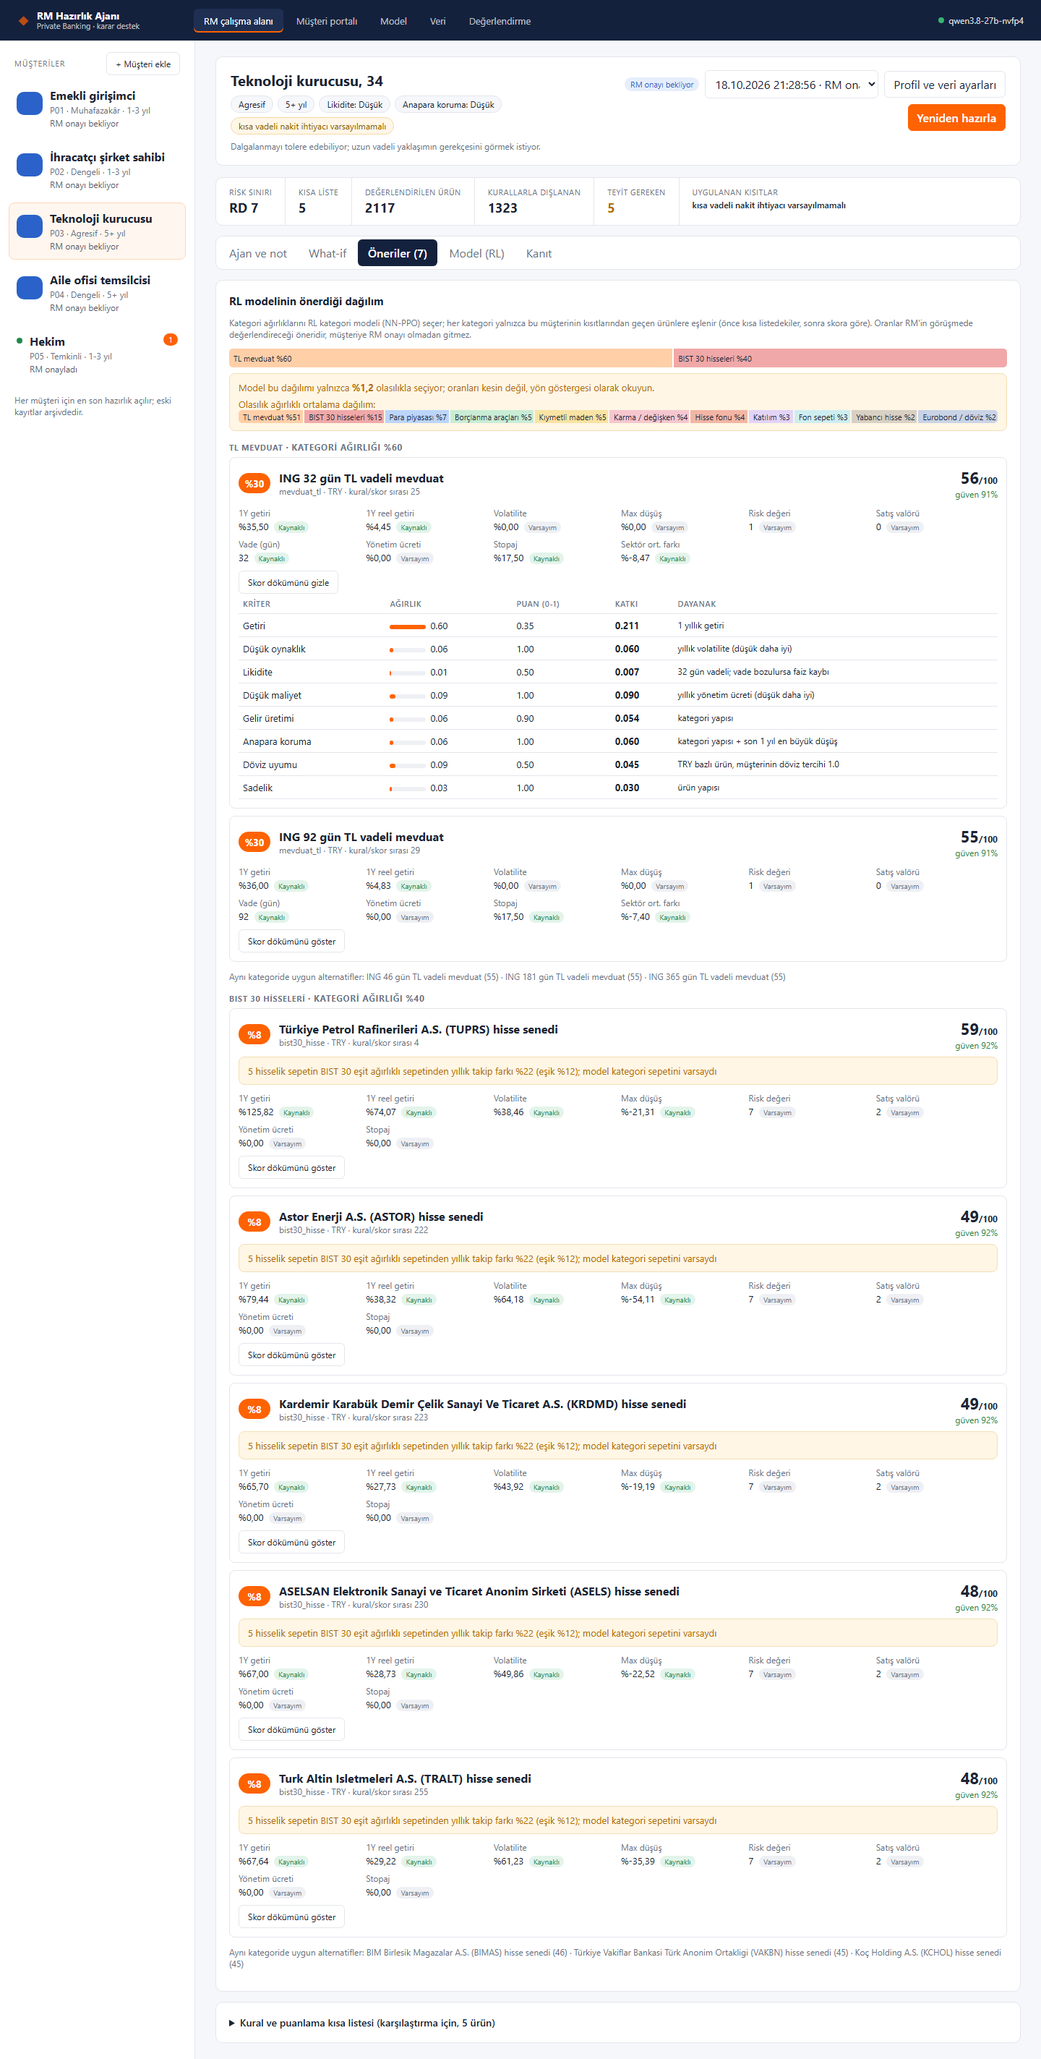
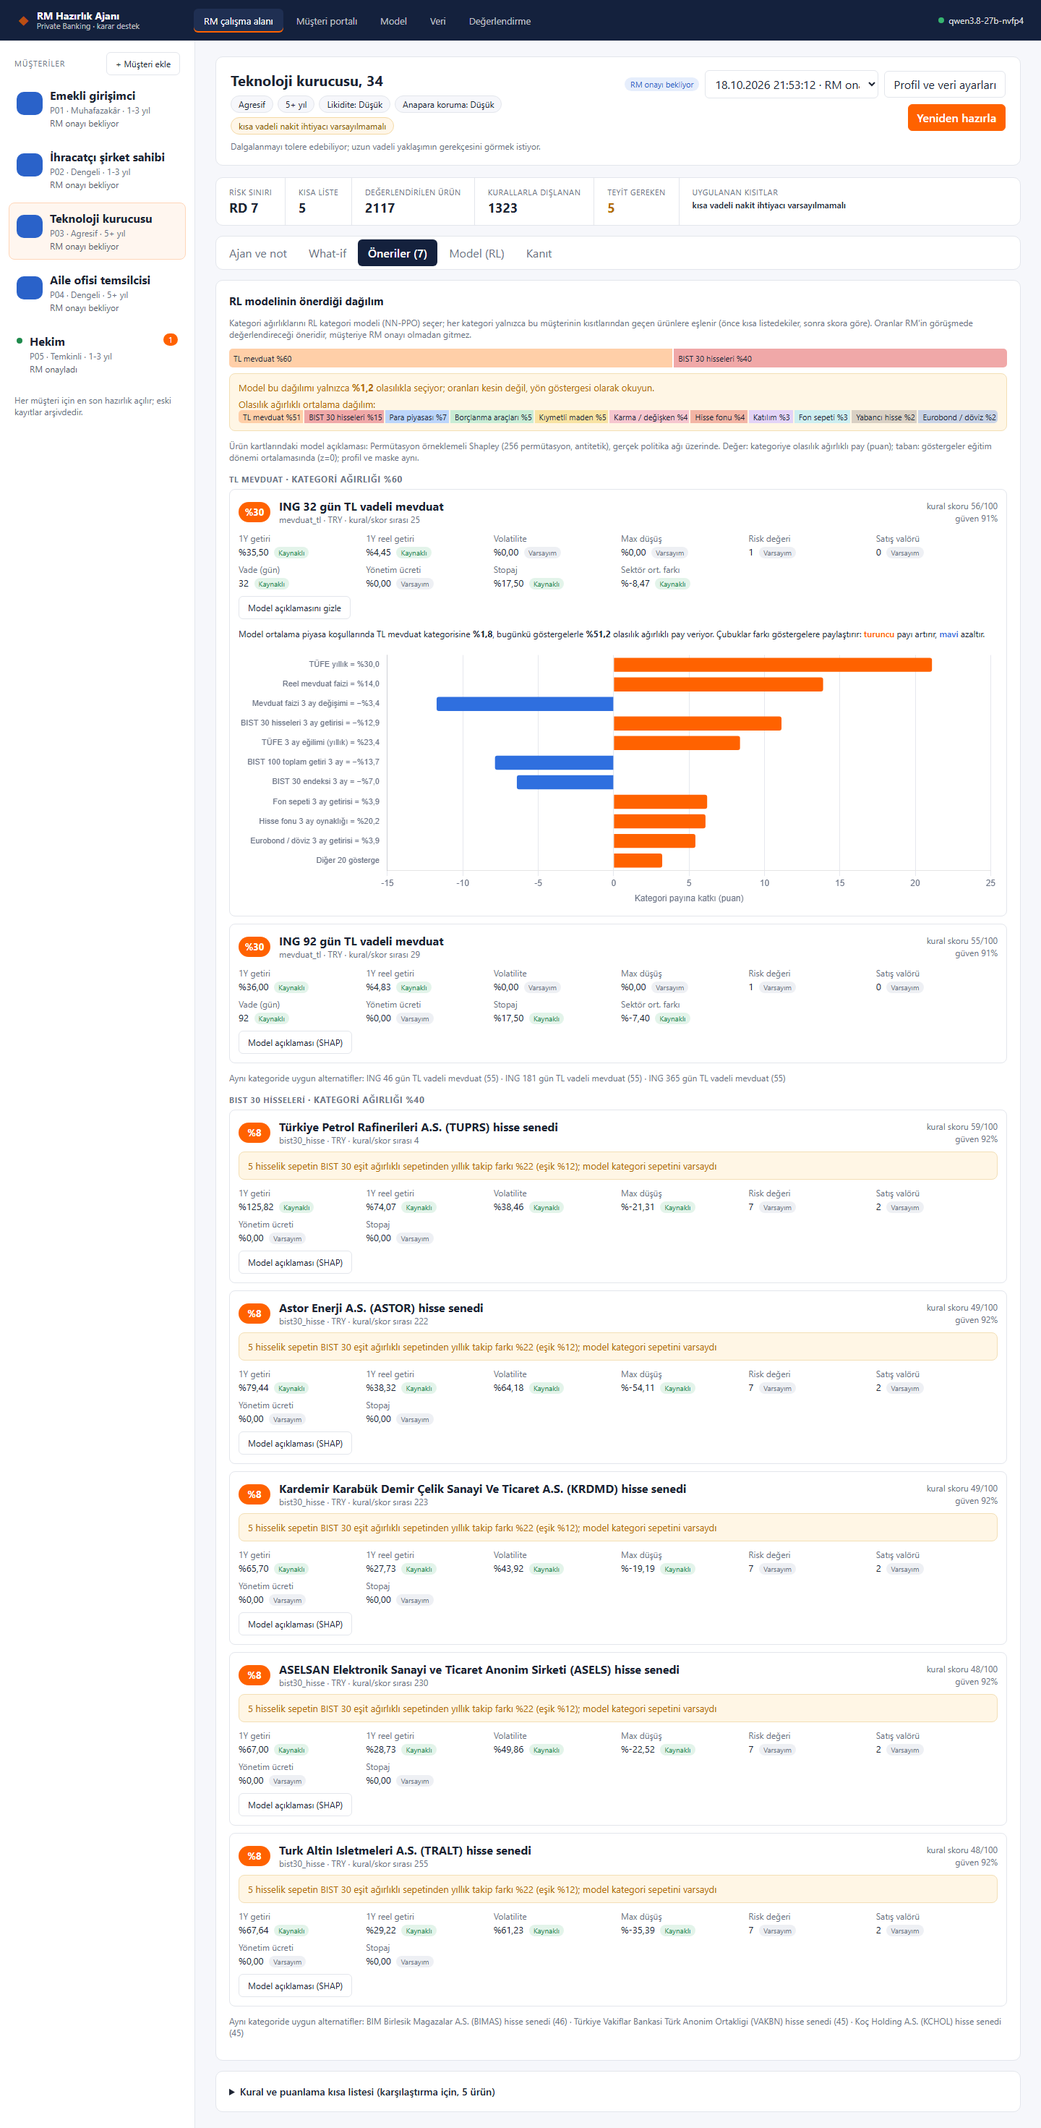
Öneriler kartlarında gösterge düzeyinde SHAP grafiği
RL ürün kartlarında kural skor dökümü yerine, ürünün kategorisi için 30 piyasa
göstergesinin modelin olasılık ağırlıklı payına katkısı (permütasyon örneklemeli
Shapley, gerçek politika ağı) Chart.js ile gösteriliyor. Katkılar toplamı kesin;
test eklendi. Kural skoru kartta küçük bilgi olarak kaldı.

diff --git a/frontend/src/components/ResultView.tsx b/frontend/src/components/ResultView.tsx
@@ -6,6 +6,7 @@ import { RLView } from './RLView'
 import { RLCategoryView } from './RLCategoryView'
 import { RLSummaryCard } from './RLSummaryCard'
 import { AllocBar, CAT_LABEL } from './AllocBar'
+import { ShapChart, type ShapCat } from './ShapChart'
 import { AgentPanel } from './AgentPanel'
 import { WhatIfPanel } from './WhatIfPanel'
 import { CustomerFacingPanel } from './CustomerFacingPanel'
@@ -43,7 +44,8 @@ function SourceChip({ dp }: { dp: DataPoint }) {
   )
 }
 
-function ProductCard({ s, weight, note }: { s: Scored; weight?: number; note?: string | null }) {
+function ProductCard({ s, weight, note, shap }: { s: Scored; weight?: number; note?: string | null; shap?: { cat: string; d: ShapCat } | null }) {
+  const rl = weight !== undefined
   const [open, setOpen] = useState(false)
   const p = s.product
   const show = ['getiri_1y', 'reel_getiri_1y', 'getiri_1y_karsilastirma', 'benchmark_farki_1y', 'volatilite', 'max_dusus', 'rd',
@@ -57,10 +59,16 @@ function ProductCard({ s, weight, note }: { s: Scored; weight?: number; note?: s
           <strong>{p.name}</strong>
           <div className="muted small">{p.category} · {p.currency}{weight !== undefined ? ` · kural/skor sırası ${s.rank}` : ''}</div>
         </div>
-        <div className="score">
-          <div>{(s.score * 100).toFixed(0)}<span className="small">/100</span></div>
-          <div className={`small conf ${s.confidence < 0.7 ? 'low' : ''}`}>güven {(s.confidence * 100).toFixed(0)}%</div>
-        </div>
+        {rl ? (
+          <div className="rule-score" title="Uygunluk ve aday sırası için kullanılan 8 kriterli kural skoru; dağılımı RL modeli belirler">
+            kural skoru {(s.score * 100).toFixed(0)}/100<br />güven {(s.confidence * 100).toFixed(0)}%
+          </div>
+        ) : (
+          <div className="score">
+            <div>{(s.score * 100).toFixed(0)}<span className="small">/100</span></div>
+            <div className={`small conf ${s.confidence < 0.7 ? 'low' : ''}`}>güven {(s.confidence * 100).toFixed(0)}%</div>
+          </div>
+        )}
       </div>
       {note && <div className="banner warnbox small">{note}</div>}
       <div className="facts">
@@ -71,8 +79,15 @@ function ProductCard({ s, weight, note }: { s: Scored; weight?: number; note?: s
           </div>
         ))}
       </div>
-      <button className="ghost small" onClick={() => setOpen(!open)}>{open ? 'Skor dökümünü gizle' : 'Skor dökümünü göster'}</button>
-      {open && <Breakdown items={s.breakdown} />}
+      {rl ? (
+        shap ? <>
+          <button className="ghost small" onClick={() => setOpen(!open)}>{open ? 'Model açıklamasını gizle' : 'Model açıklaması (SHAP)'}</button>
+          {open && <ShapChart cat={shap.cat} d={shap.d} />}
+        </> : <p className="muted small">Bu hazırlıkta gösterge açıklaması yok; "Yeniden hazırla" ile üretilir.</p>
+      ) : <>
+        <button className="ghost small" onClick={() => setOpen(!open)}>{open ? 'Skor dökümünü gizle' : 'Skor dökümünü göster'}</button>
+        {open && <Breakdown items={s.breakdown} />}
+      </>}
     </div>
   )
 }
@@ -107,6 +122,7 @@ function RLRecommendations({ run }: { run: RunRecord }) {
           {pb.beklenen_dagilim && <div style={{ marginTop: 6 }}>Olasılık ağırlıklı ortalama dağılım:<AllocBar compact d={Object.fromEntries(Object.entries(pb.beklenen_dagilim).map(([c, v]) => [c, Math.round(v)]).filter(([, v]) => (v as number) > 0))} /></div>}
         </div>
       )}
+      {k.ozellik_shap && <p className="muted small">Ürün kartlarındaki model açıklaması: {k.ozellik_shap.yontem}. Değer: {k.ozellik_shap.deger.toLowerCase()}; taban: {k.ozellik_shap.taban.toLowerCase()}.</p>}
       {cats.map((cat) => {
         const items = rows.filter((m) => m.kategori === cat)
         const alts = k.kategori_alternatifleri?.[cat] ?? []
@@ -119,7 +135,8 @@ function RLRecommendations({ run }: { run: RunRecord }) {
                 <div key={i} className="product"><div className="product-head"><span className="rank weight">%{Math.round(m.agirlik * 100)}</span>
                   <div className="grow"><strong>{m.ad ?? 'Bu kategoride uygun ürün yok'}</strong>{m.takip_uyarisi && <div className="small muted">{m.takip_uyarisi}</div>}</div></div></div>
               )
-              return <ProductCard key={m.product_id} s={s} weight={m.agirlik} note={m.takip_uyarisi} />
+              const sh = k.ozellik_shap?.kategoriler[cat]
+              return <ProductCard key={m.product_id} s={s} weight={m.agirlik} note={m.takip_uyarisi} shap={sh ? { cat, d: sh } : null} />
             })}
             {alts.length > 0 && <p className="muted small">Aynı kategoride uygun alternatifler: {alts.map((a) => `${a.ad} (${Math.round(a.skor * 100)})`).join(' · ')}</p>}
           </div>

diff --git a/frontend/src/components/ShapChart.tsx b/frontend/src/components/ShapChart.tsx
@@ -1,0 +1,74 @@
+import { useEffect, useRef } from 'react'
+import { BarController, BarElement, CategoryScale, Chart, LinearScale, Tooltip } from 'chart.js'
+import { pct } from '../format'
+import { CAT_LABEL } from './AllocBar'
+
+Chart.register(BarController, BarElement, CategoryScale, LinearScale, Tooltip)
+
+export interface ShapRow { gosterge: string; tema: string; bugun: number; egitim_ort: number; z: number; katki_puan: number; hata_puan: number }
+export interface ShapCat { taban_pay: number; bugun_pay: number; katkilar: ShapRow[] }
+
+const TOP = 10
+
+const label = (ad: string) => {
+  const [code, ...rest] = ad.split(' ')
+  return CAT_LABEL[code] ? `${CAT_LABEL[code]} ${rest.join(' ')}` : ad
+}
+const val = (x: number) => (Math.abs(x) < 5 ? (x < 0 ? '−' : '') + pct(Math.abs(x), 1) : x.toLocaleString('tr-TR', { maximumFractionDigits: 2 }))
+const pp = (x: number) => `${x > 0 ? '+' : x < 0 ? '−' : ''}${Math.abs(x).toFixed(1).replace('.', ',')}`
+
+// Gösterge düzeyinde SHAP: her göstergenin, modelin bu kategoriye verdiği olasılık ağırlıklı paya katkısı (puan).
+// Taban = göstergeler eğitim ortalamasında; çubukların toplamı + taban = bugünkü pay.
+export function ShapChart({ cat, d }: { cat: string; d: ShapCat }) {
+  const ref = useRef<HTMLCanvasElement>(null)
+  const top = d.katkilar.slice(0, TOP)
+  const rest = d.katkilar.slice(TOP)
+  const restSum = rest.reduce((s, r) => s + r.katki_puan, 0)
+
+  useEffect(() => {
+    if (!ref.current) return
+    const rows = [...top.map((r) => ({ l: `${label(r.gosterge)} = ${val(r.bugun)}`, v: r.katki_puan, r })),
+      ...(rest.length ? [{ l: `Diğer ${rest.length} gösterge`, v: restSum, r: null }] : [])]
+    const css = getComputedStyle(document.documentElement)
+    const ink = css.getPropertyValue('--muted').trim() || '#6b7385'
+    const chart = new Chart(ref.current, {
+      type: 'bar',
+      data: {
+        labels: rows.map((x) => x.l),
+        datasets: [{ data: rows.map((x) => x.v), backgroundColor: rows.map((x) => (x.v >= 0 ? '#ff6200' : '#2f6fdf')), borderRadius: 3 }],
+      },
+      options: {
+        indexAxis: 'y', responsive: true, maintainAspectRatio: false, animation: false,
+        plugins: {
+          legend: { display: false },
+          tooltip: {
+            callbacks: {
+              label: (c) => {
+                const x = rows[c.dataIndex]
+                if (!x.r) return `${pp(x.v)} puan (toplam)`
+                return [`${pp(x.v)} puan (±${x.r.hata_puan.toFixed(1).replace('.', ',')} örnekleme hatası)`,
+                  `bugün ${val(x.r.bugun)} · eğitim ort. ${val(x.r.egitim_ort)} · z ${x.r.z.toFixed(2).replace('.', ',')}`, x.r.tema]
+              },
+            },
+          },
+        },
+        scales: {
+          x: { title: { display: true, text: 'Kategori payına katkı (puan)', color: ink }, ticks: { color: ink }, grid: { color: '#e6e8ee' } },
+          y: { ticks: { color: ink, font: { size: 11 } }, grid: { display: false } },
+        },
+      },
+    })
+    return () => chart.destroy()
+  }, [d]) // eslint-disable-line react-hooks/exhaustive-deps
+
+  return (
+    <div className="shap">
+      <p className="small">
+        Model ortalama piyasa koşullarında {CAT_LABEL[cat] ?? cat} kategorisine <strong>%{d.taban_pay.toString().replace('.', ',')}</strong>,
+        bugünkü göstergelerle <strong>%{d.bugun_pay.toString().replace('.', ',')}</strong> olasılık ağırlıklı pay veriyor.
+        Çubuklar farkı göstergelere paylaştırır: <span className="shap-pos">turuncu</span> payı artırır, <span className="shap-neg">mavi</span> azaltır.
+      </p>
+      <div style={{ height: 28 * (top.length + (rest.length ? 1 : 0)) + 50 }}><canvas ref={ref} /></div>
+    </div>
+  )
+}

diff --git a/frontend/src/types.ts b/frontend/src/types.ts
@@ -130,6 +130,7 @@ export interface RLCategoryResult {
   urun_eslemesi: { kategori: string; kategori_agirligi: number; agirlik: number; product_id: string | null; ad: string | null; kisa_listede: boolean; skor: number | null; takip_farki: number | null; takip_uyarisi: string | null; vekil_kategori?: string | null }[]
   urun_ayrintilari?: Record<string, Scored>
   kategori_alternatifleri?: Record<string, { product_id: string; ad: string; skor: number; kisa_listede: boolean }[]>
+  ozellik_shap?: { model: string; yontem: string; deger: string; taban: string; karar_tarihi: string; kategoriler: Record<string, import('./components/ShapChart').ShapCat> } | null
   politika_belirsizligi?: { secilen_olasilik?: number | null; beklenen_dagilim?: Record<string, number> | null; model?: string } | null
   mevcut_dagilim?: Record<string, number>
   devir?: number

diff --git a/frontend/src/App.css b/frontend/src/App.css
@@ -223,3 +223,7 @@ tr.warnrow td { background: #fffaf0; color: var(--warn); }
 .rank.weight { width: auto; min-width: 44px; padding: 0 8px; border-radius: 14px; font-size: 13px; }
 .rl-cat { margin-top: 14px; }
 .rl-cat h4 { margin: 0 0 6px; }
+.shap { margin-top: 8px; }
+.shap-pos { color: #ff6200; font-weight: 600; }
+.shap-neg { color: #2f6fdf; font-weight: 600; }
+.rule-score { text-align: right; font-size: 12px; color: var(--muted); line-height: 1.4; }

diff --git a/backend/app/rl_tools.py b/backend/app/rl_tools.py
@@ -341,6 +341,46 @@ def _margin_text(margin, spread, probs, order) -> str:
             else "orta" if margin / (spread or 1) < 0.5 else "geniş")
 
 
+def ozellik_shap(args: dict, n_perm: int = 256, seed: int = 0) -> dict | None:
+    """Gösterge düzeyinde SHAP (permütasyon örneklemeli Shapley, antitetik): her piyasa göstergesinin, modelin her
+    kategoriye verdiği olasılık ağırlıklı paya (Σ π(a)·A[a]) katkısı. Taban: göstergeler eğitim ortalamasında (z=0);
+    profil, maske ve mevcut dağılım sabit. Değer fonksiyonu tek dağılım (argmax) değil beklenen paydır: argmax düz
+    politikada sıçradığı için katkıları gürültüye çevirir. Toplam özelliği kesin: Σφ = bugünkü pay − taban pay.
+    Yalnızca NN-politika modelleri (olasılık gerekir)."""
+    ctx = context(args)
+    if not ctx.is_ppo:
+        return None
+    F, C = len(ctx.names), len(ctx.cats)
+    z_today = ctx.z
+    rng = np.random.default_rng(seed)
+    half = [rng.permutation(F) for _ in range(n_perm // 2)]
+    perms = half + [p[::-1] for p in half]                      # antitetik çiftler: varyansı düşürür
+    Z = np.zeros((len(perms), F + 1, F))
+    for k, p in enumerate(perms):
+        for j in range(F):
+            Z[k, j + 1] = Z[k, j]
+            Z[k, j + 1, p[j]] = z_today[p[j]]
+    X = np.stack([ctx.x(z) for z in Z.reshape(-1, F)])
+    V = (ctx.net.probs(X, ctx.mask) @ ctx.A).reshape(len(perms), F + 1, C)
+    contrib = np.zeros((len(perms), F, C))
+    for k, p in enumerate(perms):
+        contrib[k, p] = V[k, 1:] - V[k, :-1]
+    phi, se = contrib.mean(0), contrib.std(0) / np.sqrt(len(perms))
+    base, today = V[0, 0], V[0, -1]
+    out = {}
+    for j, c in enumerate(ctx.cats):
+        if not ctx.mask.any() or (today[j] < 0.005 and base[j] < 0.005):
+            continue
+        rows = [{"gosterge": ctx.names[i], "tema": _theme_of(ctx.names[i]), "bugun": round(float(ctx.raw[i]), 4),
+                 "egitim_ort": round(float(ctx.mu[i]), 4), "z": round(float(z_today[i]), 2),
+                 "katki_puan": round(float(phi[i, j]) * 100, 2), "hata_puan": round(float(se[i, j]) * 100, 2)}
+                for i in np.argsort(-np.abs(phi[:, j]))]
+        out[c] = {"taban_pay": round(float(base[j]) * 100, 1), "bugun_pay": round(float(today[j]) * 100, 1), "katkilar": rows}
+    return {"model": ctx.version, "yontem": f"Permütasyon örneklemeli Shapley ({len(perms)} permütasyon, antitetik), gerçek politika ağı üzerinde",
+            "deger": "Kategoriye olasılık ağırlıklı pay (puan)", "taban": "Göstergeler eğitim dönemi ortalamasında (z=0); profil ve maske aynı",
+            "karar_tarihi": str(ctx.ds["dates"][ctx.today].date()), "kategoriler": out}
+
+
 def rl_neden(args: dict) -> dict:
     """Kesin tema Shapley'i: v(S) = S'deki temaların bugünkü değerde, diğerlerinin eğitim ortalamasında (z=0)
     olduğu durumda modelin seçtiği dağılım. φ_g = temanın 'ortalama piyasa → bugün' dağılım farkına katkısı (puan)."""

diff --git a/backend/app/pipeline.py b/backend/app/pipeline.py
@@ -229,6 +229,21 @@ def _policy_uncertainty(original, req) -> dict | None:
             "model_tercihi": k["model_tercihi"], "model": k["model"]}
 
 
+def _feature_shap(original, req, cats: set[str]) -> dict | None:
+    """Öneriler sekmesindeki ürün kartları için gösterge düzeyinde SHAP (rl_tools.ozellik_shap), yalnızca eşlenen
+    kategoriler. Açıklama yardımcıdır: hesaplanamazsa öneri yine üretilir."""
+    from . import rl_tools
+    try:
+        r = rl_tools.ozellik_shap({"persona": original.model_dump(), "rm_answers": req.rm_answers or {},
+                                   "mevcut_dagilim": req.mevcut_dagilim})
+    except Exception:
+        return None
+    if r is None:
+        return None
+    r["kategoriler"] = {c: v for c, v in r["kategoriler"].items() if c in cats}
+    return r
+
+
 def _rlk_lines(r: dict, allowed: set[str]) -> list[str]:
     """Profile koşullu kategori modelinin sonucunu taslak metin satırlarına çevirir."""
     def pct(x):
@@ -349,6 +364,7 @@ def run(req: RunRequest) -> dict:
                 alts[cat] = [{"product_id": s.product.product_id, "ad": s.product.name, "skor": s.score, "kisa_listede": s.selected}
                              for s in pool[:3]]
             r["kategori_alternatifleri"] = alts
+            r["ozellik_shap"] = _feature_shap(original, req, {m["kategori"] for m in r["urun_eslemesi"]})
         return r
 
     rlk_result = tr.run("rl_kategori_modeli", "rl", run_rlk,

diff --git a/backend/tests/test_rl_tools.py b/backend/tests/test_rl_tools.py
@@ -32,6 +32,20 @@ def test_shapley_efficiency_matches_real_model(pid):
 
 
 @needs_model
+@pytest.mark.parametrize("pid", ["P03", "P05"])
+def test_feature_shap_is_additive_and_matches_expected_allocation(pid):
+    """Gösterge SHAP'i: katkılar toplamı = bugünkü pay − taban pay (permütasyon başına kesin) ve bugünkü pay rl_karar'ın
+    olasılık ağırlıklı dağılımıyla aynı; izinsiz kategori açıklamada yok."""
+    r = T.ozellik_shap({"persona_id": pid}, n_perm=32)
+    k = T.rl_karar({"persona_id": pid})
+    assert r["kategoriler"]
+    for c, v in r["kategoriler"].items():
+        assert c not in k["dislanan_kategoriler"]
+        assert abs(sum(x["katki_puan"] for x in v["katkilar"]) - (v["bugun_pay"] - v["taban_pay"])) < 0.6   # yuvarlama payı
+        assert abs(v["bugun_pay"] - k["beklenen_dagilim"].get(c, 0)) < 0.6   # <0,5 paylar rl_karar'da listelenmez
+
+
+@needs_model
 def test_what_if_without_changes_keeps_decision():
     r = T.rl_ne_olursa({"persona_id": "P01", "gostergeler": []})
     assert r["karar_degisti"] is False and r["onceki_dagilim"] == r["yeni_dagilim"]

diff --git a/docs/rl.md b/docs/rl.md
@@ -379,6 +379,13 @@ Kullanıcının bulduğu durum düzeldi: P05'te PP'nin 3 aylık getirisi −15 p
 - **Denenen ve reddedilen:** Karar kuralını beklenen dağılıma en yakın aksiyona çevirmek (`tools/gbrl/karar_kurali.py`). Doğrulamada argmax'tan kötü çıktı (tohum skoru ≈ −0,027'ye karşı ≈ 0), bu yüzden argmax kaldı.
 - **Çözüm:** Hazır senaryolar artık `whatif.apply` ile tutarlı uygulanıyor (`rl_ne_olursa senaryo.tur`).
 
+**Gösterge düzeyinde SHAP (Öneriler sekmesi, `rl_tools.ozellik_shap`).** Her ürün kartı, ürünün kategorisi için 30 piyasa göstergesinin katkısını gösterir.
+- **Değer fonksiyonu:** Modelin kategoriye verdiği olasılık ağırlıklı pay (Σ π(a)·A[a]). Tek dağılım (argmax) düz politikada sıçradığı için katkıları gürültüye çevirirdi.
+- **Taban:** Göstergeler eğitim ortalamasında (z=0); profil, maske ve mevcut dağılım aynı.
+- **Yöntem:** Permütasyon örneklemeli Shapley, 256 antitetik permütasyon, gerçek politika ağı üzerinde (~0,7 sn). Toplam özelliği kesin: katkılar toplamı = bugünkü pay − taban pay (test: `test_feature_shap_is_additive_and_matches_expected_allocation`). Grafik ipucunda her katkının örnekleme hatası da var.
+- **Tema Shapley'inden (`rl_neden`) farkı:** O tema düzeyinde ve seçilen tek dağılımı açıklar; bu gösterge düzeyinde ve kategori payını açıklar.
+- Kural skoru kartlarda yalnızca küçük bir bilgi olarak kalır (uygunluk ve aday sırası); dağılımı RL belirler.
+
 **Beklenen dağılımı doğrudan öneri yapmak (2026-10-18, reddedildi).** Olasılık ağırlıklı dağılım Σ π(a)·A[a] daha çeşitlendirilmiş ve girdi değişikliğine karşı daha kararlı. Bu yüzden en olası dağılımın (mod) yerine öneri olarak kullanılmasını ölçtük (`tools/gbrl/beklenen_degerlendir.py`).
 - **Kurulum:** Test dönemini eğitimde görmemiş v14 6M modelleri (`pilot_v14/tut10_s0`, `s1`). Senaryo izleri ve simülatör eğitimdekiyle aynı. Profil cezaları ağırlık vektörünün fonksiyonu olarak yeniden hesaplanıyor (wᵀΣw, Σw², likidite, gelir, sadelik, döviz). Ürüne çevrilmeyecek küçük paylar için alt eşik τ ∈ {0, 5, 10, 15} puan.
 - **Simülatör kontrolü:** Mod politikasının yeniden oynatılan test sonucu, eğitimde kaydedilen sonuçla birebir aynı (s0: ödül 0,1099, reel kazanç %13,21).

diff --git a/README.md b/README.md
@@ -260,7 +260,7 @@ Tüm liste: [docs/teslim/04_test_ve_ogrenimler.md](docs/teslim/04_test_ve_ogreni
 | Ekran | |
 |---|---|
 | **RM çalışma alanı:** görüşme hazırlık notu (lokal LLM ajanı), kısıtlar, teyit sayısı | ![](docs/ekran/01_rm_not.png) |
-| **Öneriler:** RL modelinin kategori dağılımı ürünlere eşlenmiş hâliyle (ağırlık, seçim olasılığı, olasılık ağırlıklı dağılım, kategori alternatifleri); kaynak etiketli göstergeler, skor dökümü; kural/skor kısa listesi karşılaştırma olarak altta | ![](docs/ekran/02_oneriler_skor.png) |
+| **Öneriler:** RL modelinin kategori dağılımı ürünlere eşlenmiş hâliyle (ağırlık, seçim olasılığı, olasılık ağırlıklı dağılım, kategori alternatifleri); kaynak etiketli göstergeler; her ürün kartında gösterge düzeyinde SHAP grafiği (modelin o kategoriye verdiği payı hangi piyasa göstergelerinin artırıp azalttığı); kural/skor kısa listesi ve skor dökümü karşılaştırma olarak altta | ![](docs/ekran/02_oneriler_skor.png) |
 | **Kanıt:** teyit uyarıları, kaynak / veri tarihi / alınma zamanı, dışlananlar, akış izi | ![](docs/ekran/03_kanit.png) |
 | **Model (RL):** karar, seçim olasılığı, olasılık ağırlıklı dağılım, Shapley temaları | ![](docs/ekran/04_rl_ozet.png) |
 | **What-if:** "Kur şoku" tutarlı senaryosu, belirsizlik uyarısı | ![](docs/ekran/05_whatif_kur_soku.png) |
